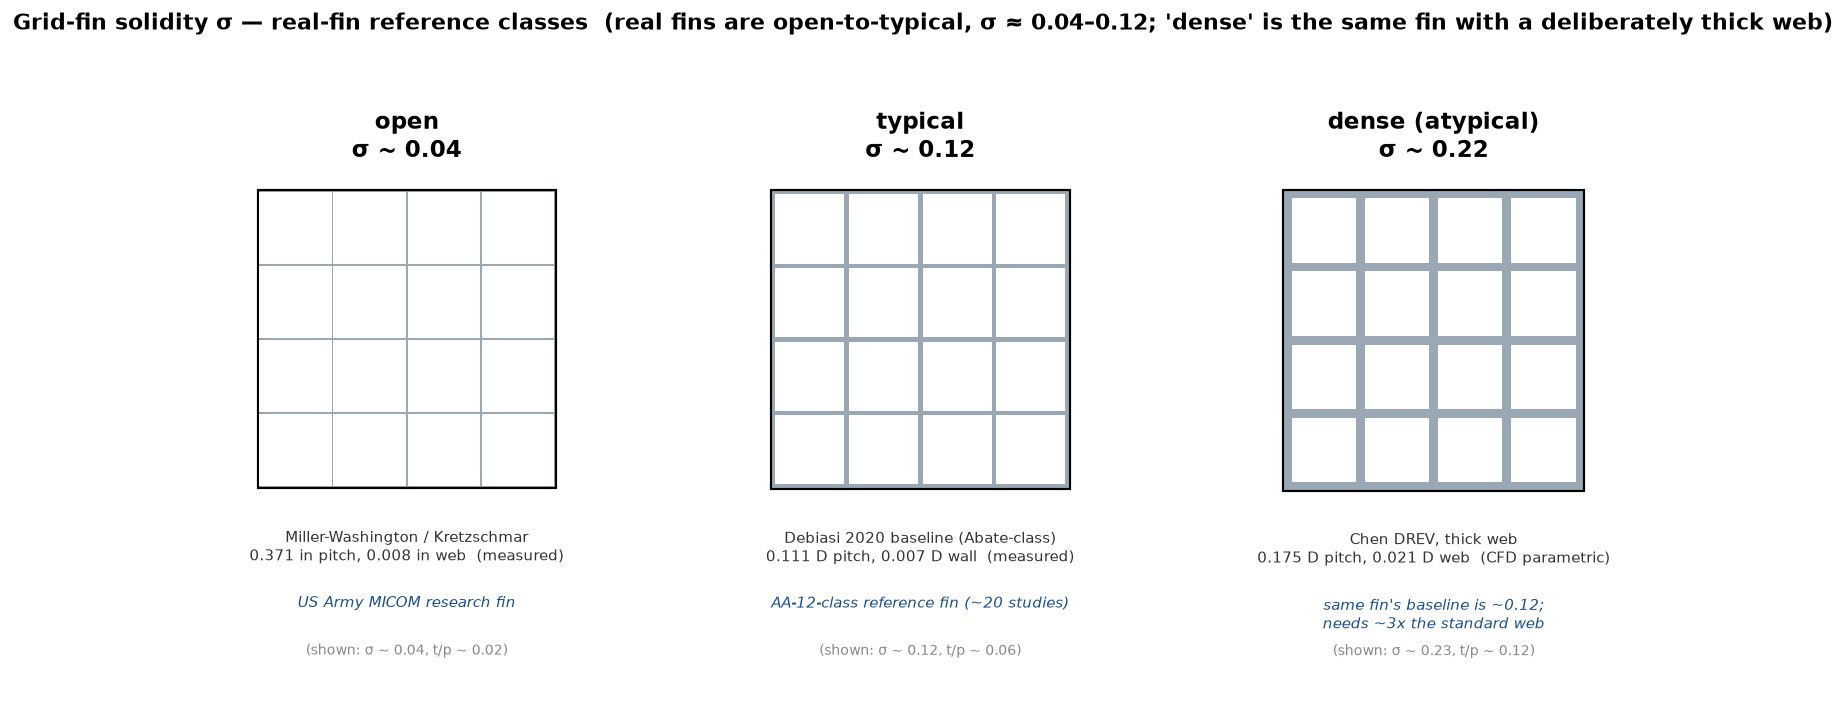
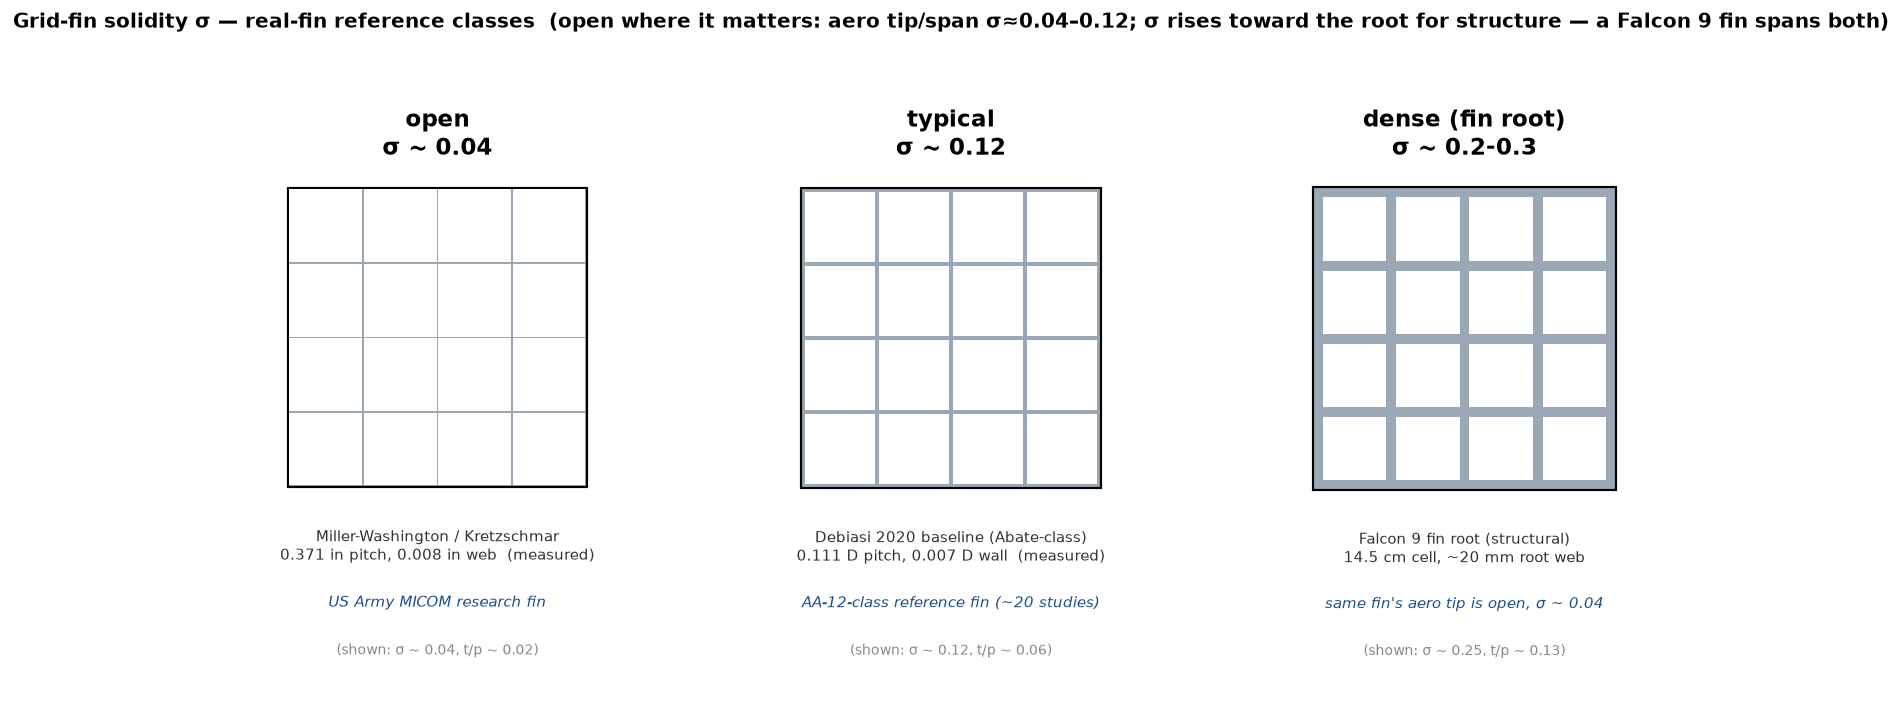
Anchor 'dense' on the Falcon 9 fin root; σ varies span-wise (open tip→dense root)
User-supplied Falcon 9 grid-fin geometry (14.5 cm cell pitch, ~2-3 mm web at
the aero tip, much thicker toward the root) resolves the missing "dense"
example and corrects an oversimplification:

- tip web ~3 mm -> σ = 1-(142/145)^2 ≈ 0.04 (open, same as the MICOM fin)
- root web ~15-25 mm (structural, carries bending load) -> σ ≈ 0.20-0.32 (dense)

So a single real flight fin spans the whole open->dense range, and "dense" σ
DOES occur on hardware — localised to the structurally-loaded root, not the
aero span. The model's single σ should represent the aerodynamically active
(open/typical) region. Diagram's dense panel re-anchored from the Chen CFD
parametric to the real Falcon 9 fin root; METHODS updated with the span-wise
finding. (Falcon 9 dims are observation/public imagery; SpaceX has not
published official specs.)

Claude-Session: https://claude.ai/code/session_01BAmco7Mc9kHrQ7ueHuHumV

diff --git a/docs/make_grid_fin_diagram.py b/docs/make_grid_fin_diagram.py
@@ -70,9 +70,9 @@ def make_classes(out=None):
         ("typical", "σ ~ 0.12", 0.122,
          "Debiasi 2020 baseline (Abate-class)\n0.111 D pitch, 0.007 D wall  (measured)",
          "AA-12-class reference fin (~20 studies)"),
-        ("dense (atypical)", "σ ~ 0.22", 0.225,
-         "Chen DREV, thick web\n0.175 D pitch, 0.021 D web  (CFD parametric)",
-         "same fin's baseline is ~0.12;\nneeds ~3x the standard web"),
+        ("dense (fin root)", "σ ~ 0.2-0.3", 0.25,
+         "Falcon 9 fin root (structural)\n14.5 cm cell, ~20 mm root web",
+         "same fin's aero tip is open, σ ~ 0.04"),
     ]
     fig, axes = plt.subplots(1, 3, figsize=(12.0, 5.4))
     n, p = 4, 1.0
@@ -94,9 +94,9 @@ def make_classes(out=None):
         ax.set_xlim(-0.3, L + 0.3); ax.set_ylim(-2.7, L + 0.3)
         ax.set_aspect('equal'); ax.axis('off')
     fig.suptitle("Grid-fin solidity σ — real-fin reference classes  "
-                 "(real fins are open-to-typical, σ ≈ 0.04–0.12; "
-                 "'dense' is the same fin with a deliberately thick web)",
-                 fontsize=12, weight='bold', y=0.99)
+                 "(open where it matters: aero tip/span σ≈0.04–0.12; "
+                 "σ rises toward the root for structure — a Falcon 9 fin spans both)",
+                 fontsize=11, weight='bold', y=0.99)
     fig.tight_layout(rect=[0, 0, 1, 0.94])
     fig.savefig(out, dpi=130, bbox_inches='tight')
     print("wrote", out)

diff --git a/METHODS.md b/METHODS.md
@@ -1379,12 +1379,25 @@ to supply it:
     Abate 2000's GTCM fin and the DRDC/DeSpirito fin re-used by Despeyroux 2015
     (D = 30 mm) — gives σ ≈ 0.087–0.09, so several independent groups corroborate
     this anchor.
-  - **dense (atypical) · σ ≈ 0.22** — Chen et al. 2000 (AIAA-2000-0987)
-    thick-web DREV panel (CFD parametric): 0.175 D pitch, 0.021 D web → σ = 0.225.
-    Important: this is the **same AA-12-class fin with ~3× the standard web** —
-    its baseline is σ ≈ 0.12 (above). No *measured* fin across thirteen grid-fin
-    papers reaches σ ≈ 0.25–0.30, so treat high σ as a deliberately-thick-web
-    special case, not a standard configuration.
+  - **dense · σ ≈ 0.2–0.3** — occurs on real hardware, but **localised to the
+    structurally-loaded root** of a large fin, not the aero span. The **SpaceX
+    Falcon 9** titanium grid fin (≈1.2 m, ~8 cells of **14.5 cm** pitch across)
+    is the clean example: its lattice walls are only ~2–3 mm at the aerodynamic
+    *tip* → σ = 1−(142/145)² ≈ **0.04** (open, same ballpark as the MICOM fin),
+    but thicken markedly toward the *root* where they carry the fin's bending
+    load — a ~15–25 mm root web gives σ ≈ **0.20–0.32**. So a single flight fin
+    spans the whole open→dense range. (The only fully *aero* example of a dense
+    lattice is Chen 2000's thick-web DREV CFD case, σ = 0.225 — the same
+    AA-12-class fin with ~3× the standard web — and the literature notes such
+    thick lattices choke and add transonic drag, which is why nobody flies a
+    uniformly dense fin.) Falcon 9 cell/web figures are from observation/public
+    imagery; SpaceX has not published official dimensions.
+
+  **σ is not a single number for a real fin — it varies span-wise** (open
+  aero-tip → dense structural-root, as above). The single σ this model takes
+  should represent the **aerodynamically active** region (the open/typical tip
+  and mid-span); the dense root is a structural feature contributing little
+  lift or projected drag area.
 
   See `docs/grid_fin_solidity_classes.png` for the three classes side by side.
   (Earlier drafts used invented bands of 0.10–0.30; those were not anchored to
